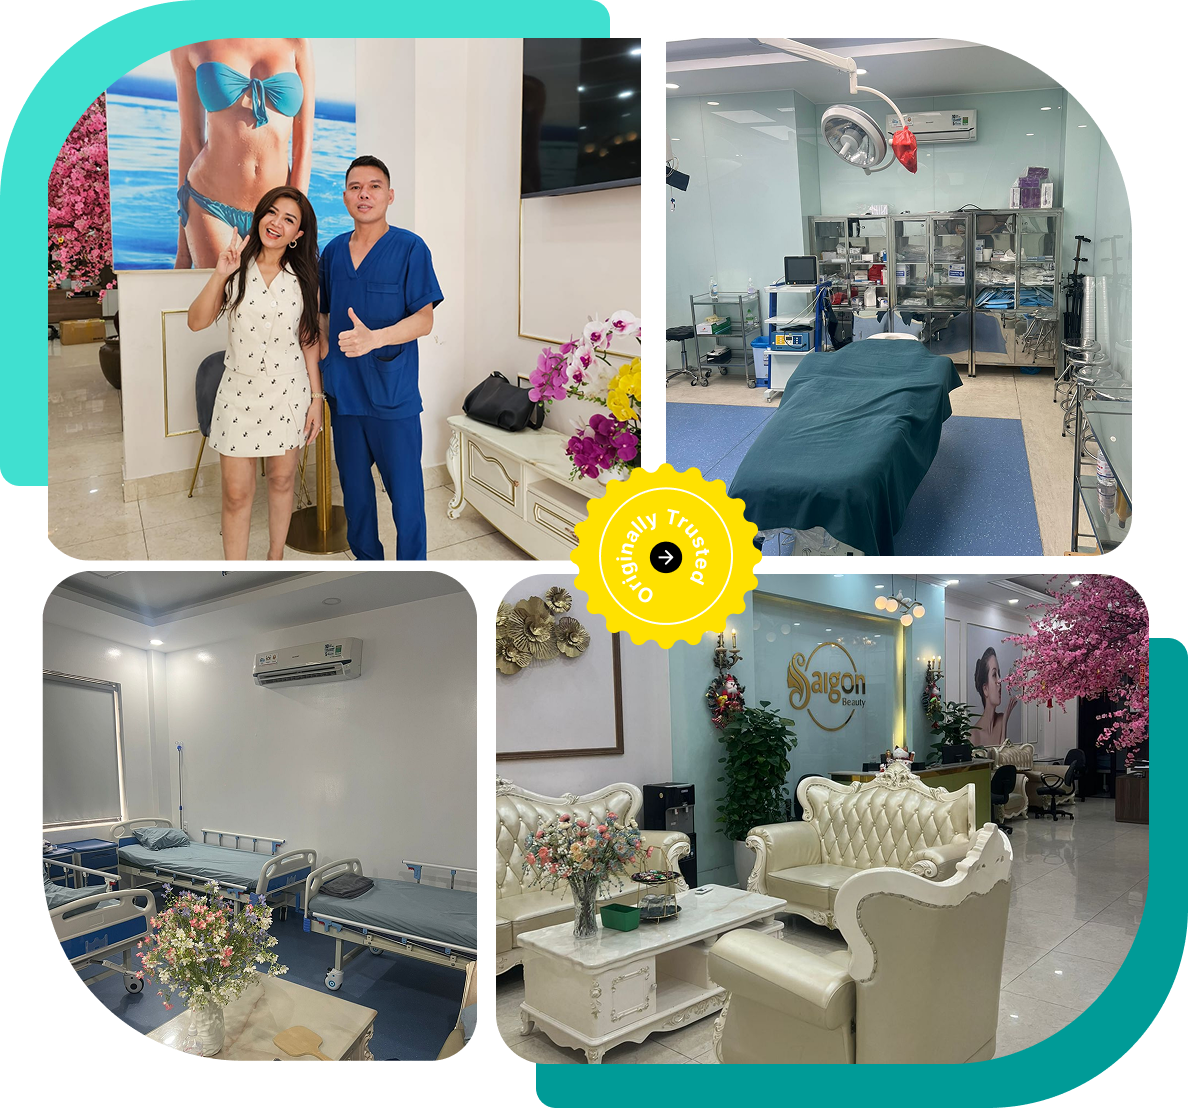
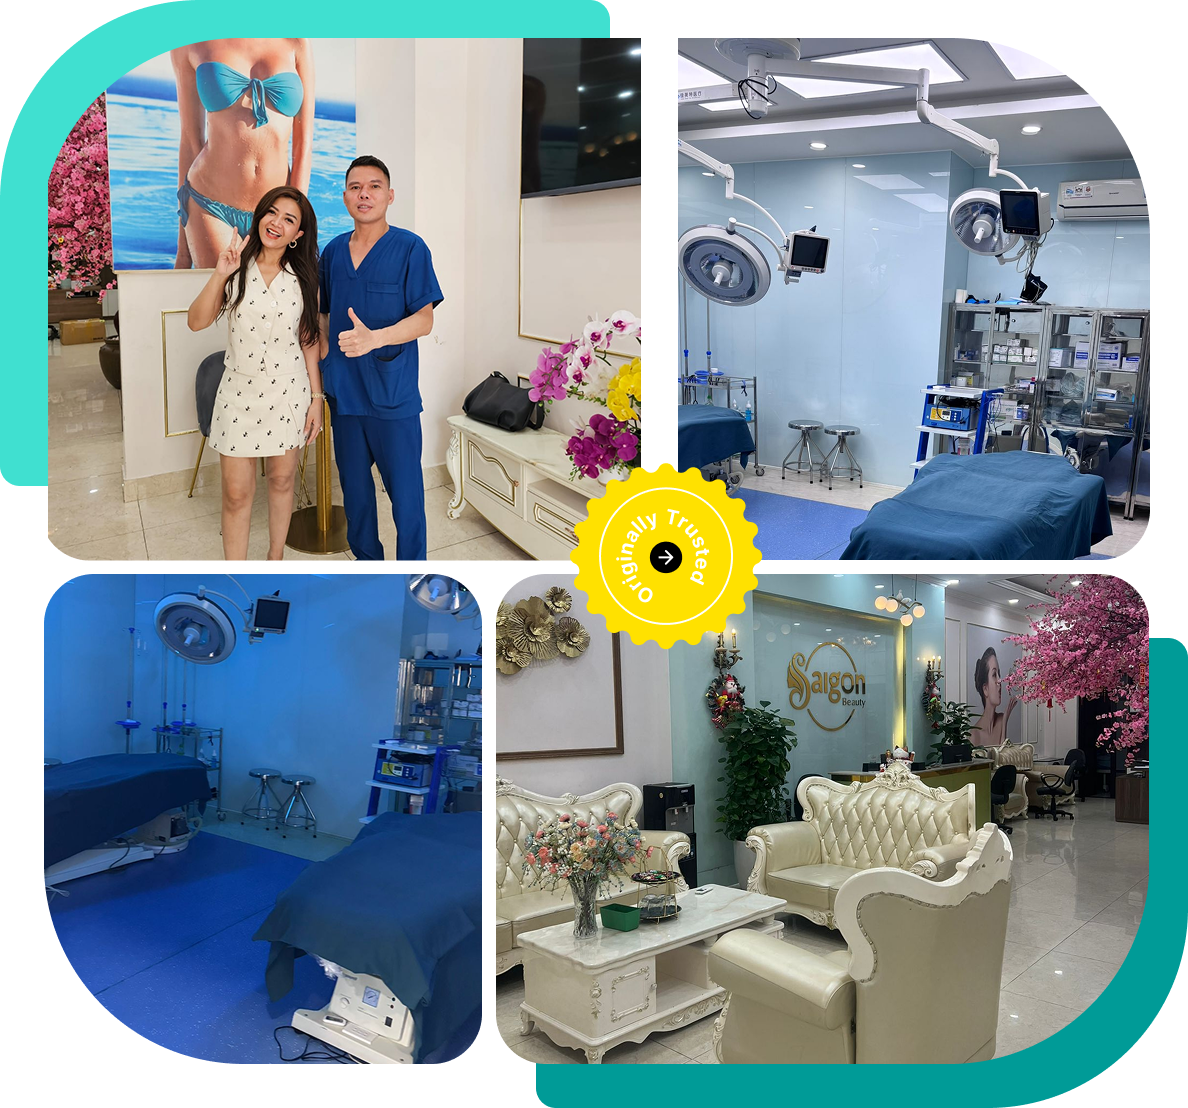
Update

diff --git a/components/Contact.jsx b/components/Contact.jsx
@@ -97,17 +97,6 @@ const Contact = () => {
                     <h2 className="text-[22px] font-bold font-primary leading-none mb-2">
                       Office
                     </h2>
-                    <p className="mb-2 font-semibold">Kantor Pusat</p>
-                    <p className="mb-2">
-                      Jakarta
-                    </p>
-                    <a
-                      href="https://www.google.com/maps/place/PT.+Tri+Artha+Manunggal/@-6.3487958,106.7013641,1131m/data=!3m2!1e3!4b1!4m6!3m5!1s0x2e69e59ecb949715:0x92c560f7f005e026!8m2!3d-6.3487958!4d106.703939!16s%2Fg%2F1pzwmnyv5!5m1!1e1?authuser=0&entry=ttu&g_ep=EgoyMDI1MDQxNC4xIKXMDSoASAFQAw%3D%3D"
-                      target="_blank"
-                      className=" text-primary underline"
-                    >
-                      Cek Lokasi {`>>`}
-                    </a>
                     <p className="font-semibold mt-4 mb-2">Klinik</p>
                     <p className="mb-2">
                       Phong Kham Saigon Beauty, Ho Chi Minh City, Vietnam
